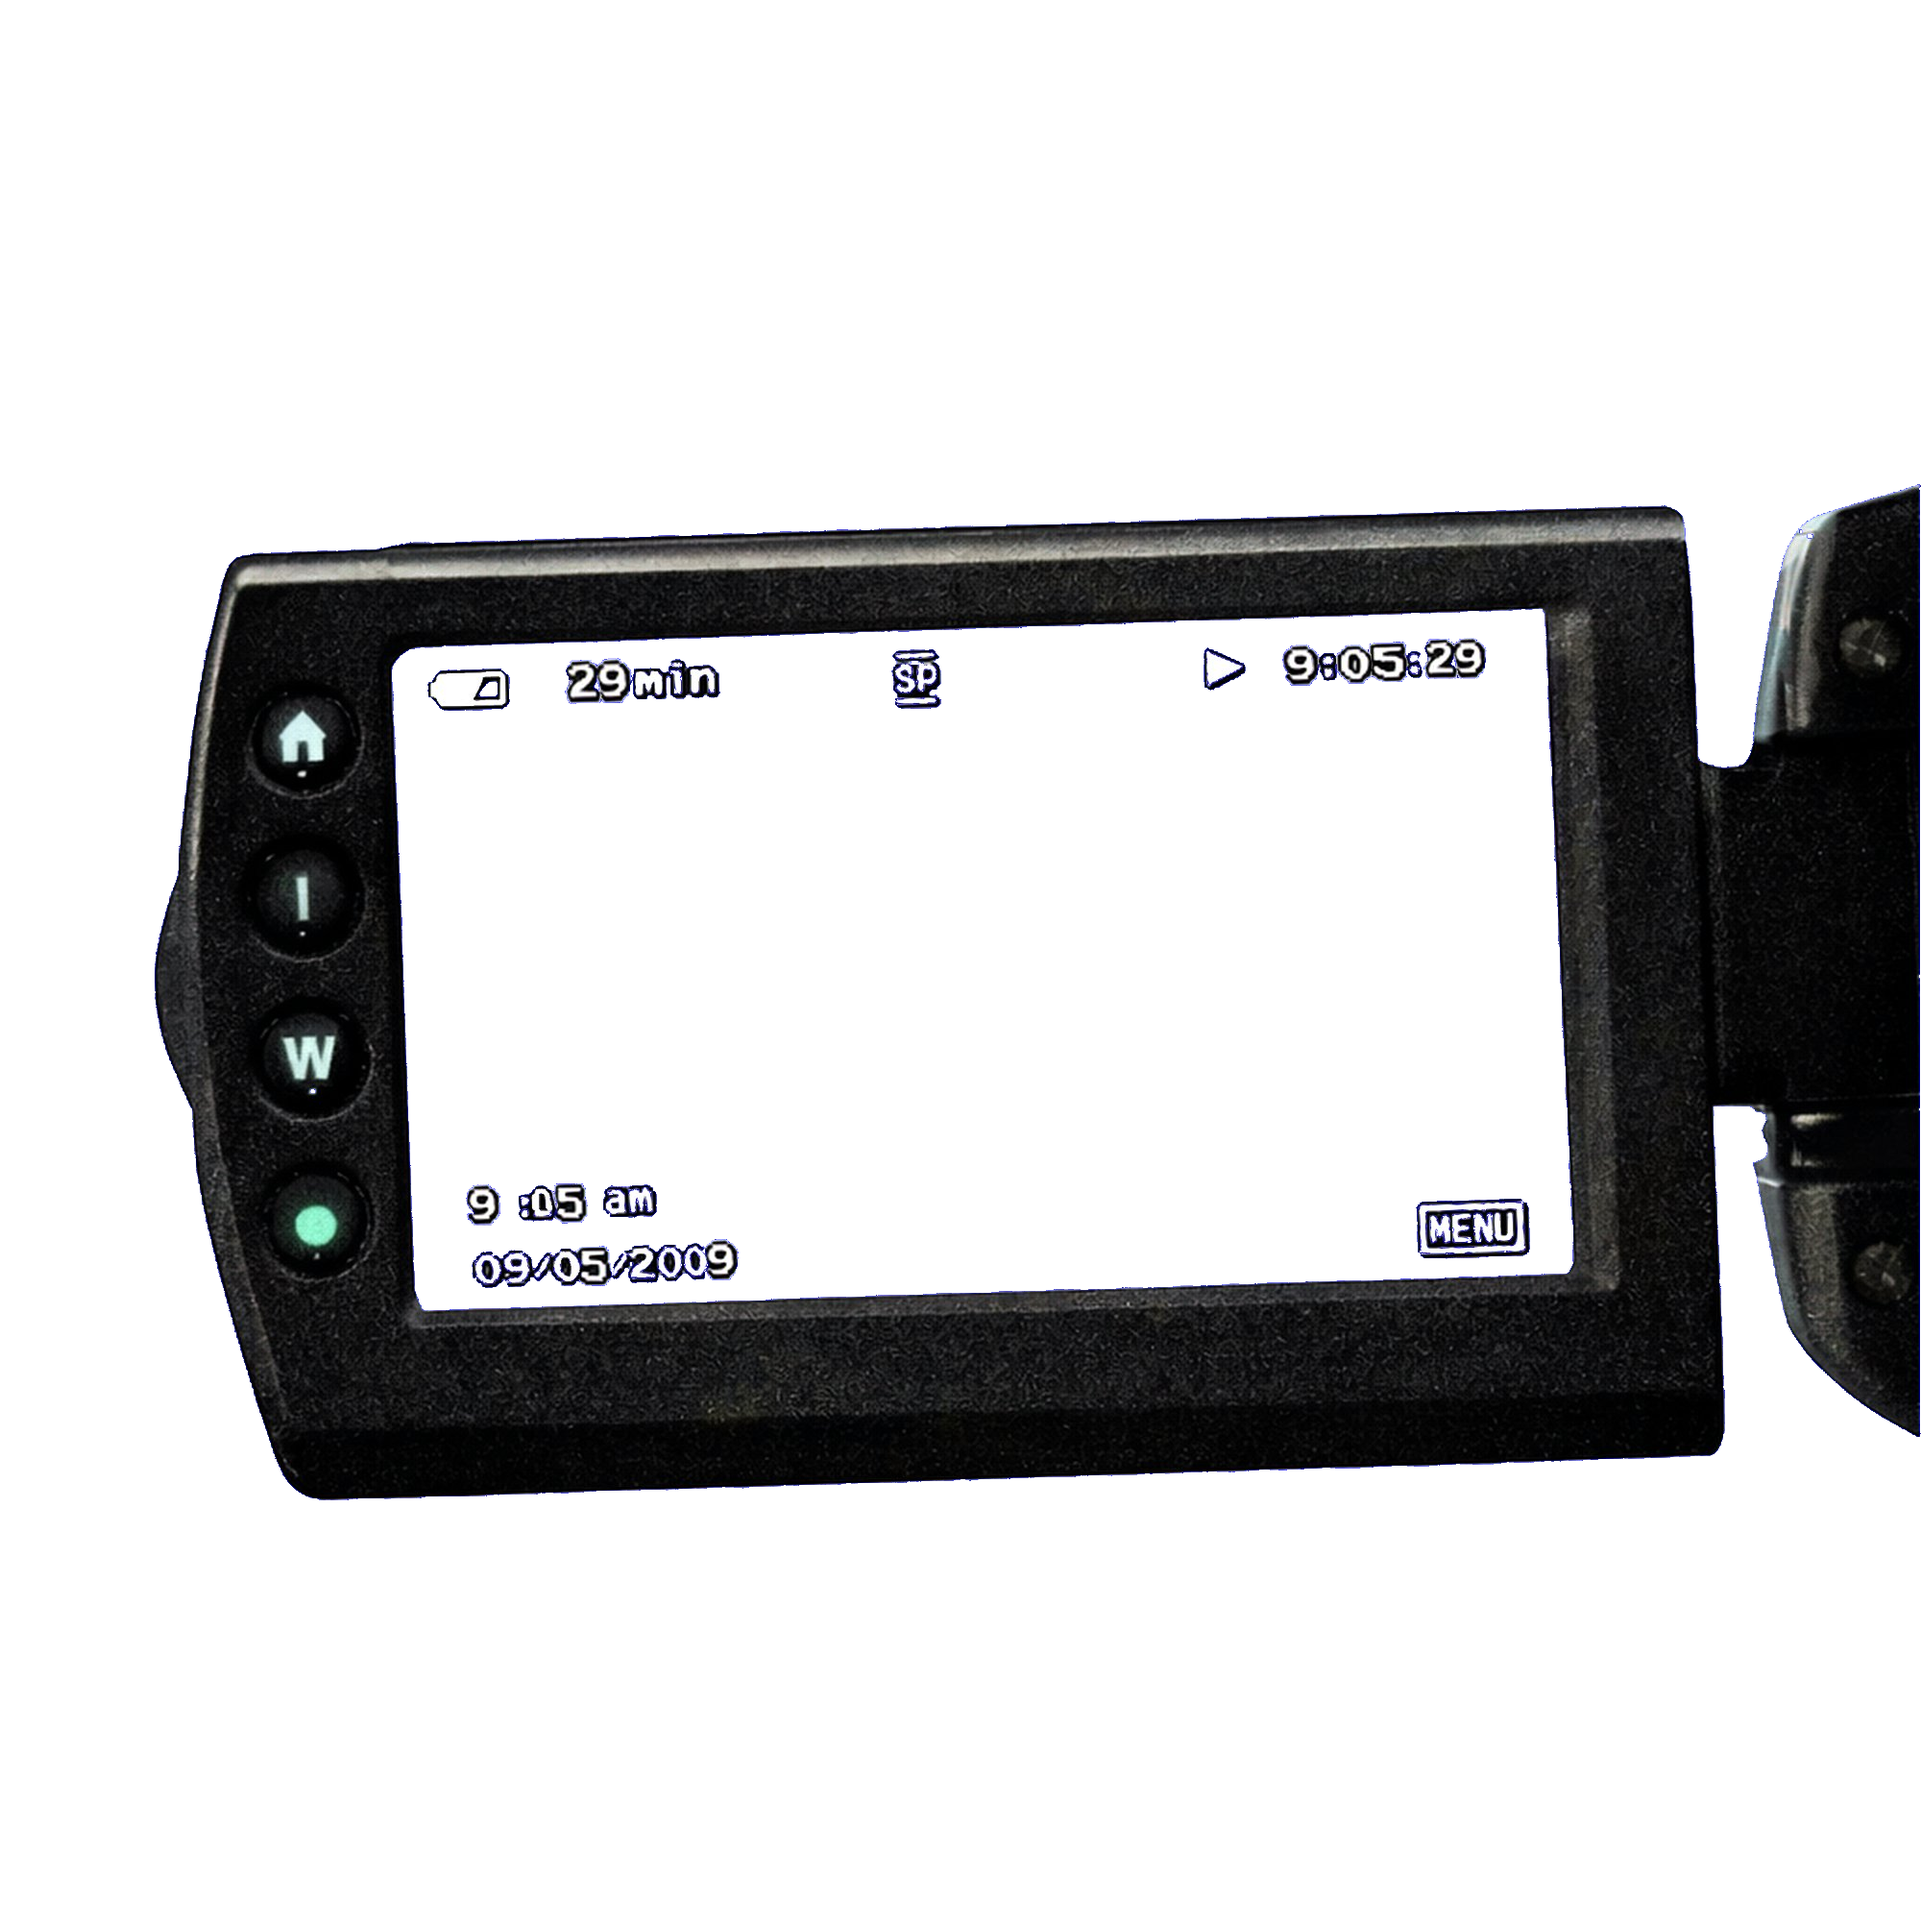
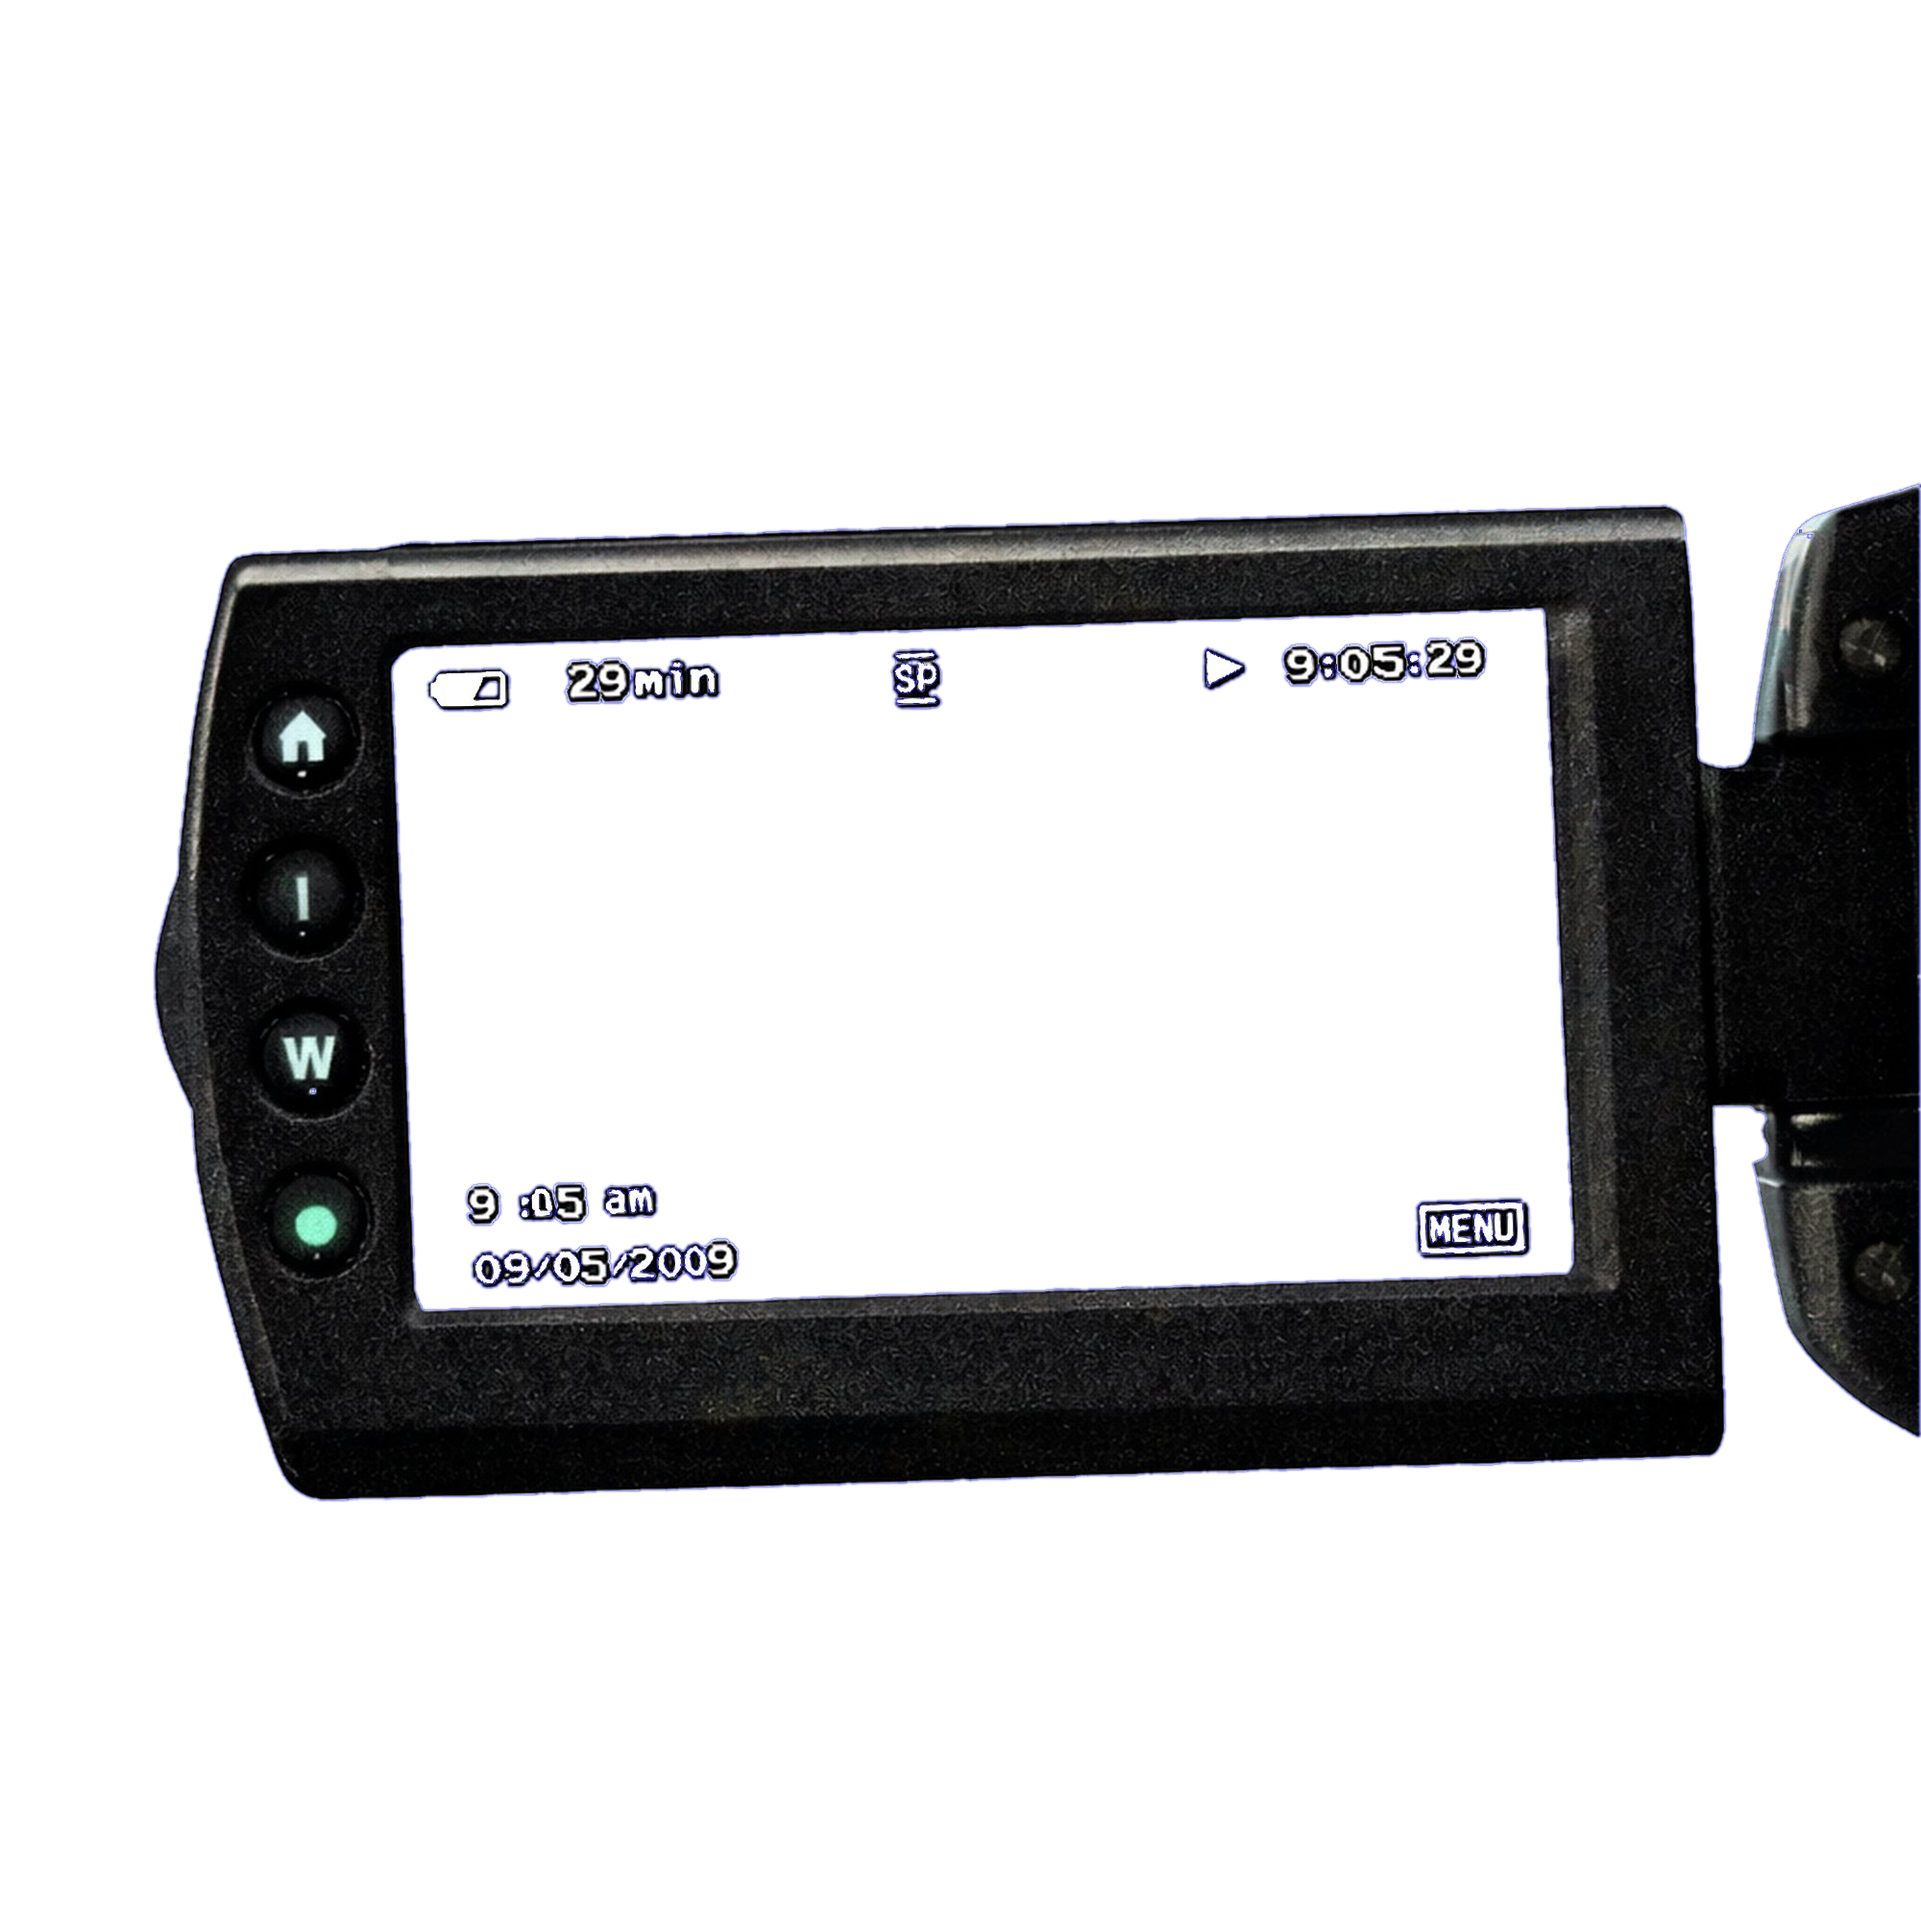
Add files via upload

diff --git a/login.js b/login.js
@@ -87,28 +87,6 @@ function getRandomVideoIndex(excludeIndex) {
     return pool[Math.floor(Math.random() * pool.length)];
 }
 
-// ── HUD 时钟 ─────────────────────────────────────────
-function startHudClock() {
-    const hudTime = document.getElementById('hudTime');
-    const hudDate = document.getElementById('hudDate');
-    if (!hudTime || !hudDate) return;
-
-    function tick() {
-        const now = new Date();
-        const h = String(now.getHours()).padStart(2, '0');
-        const m = String(now.getMinutes()).padStart(2, '0');
-        const s = String(now.getSeconds()).padStart(2, '0');
-        hudTime.textContent = `${h}:${m}:${s}`;
-
-        const mo = String(now.getMonth() + 1).padStart(2, '0');
-        const d  = String(now.getDate()).padStart(2, '0');
-        const y  = now.getFullYear();
-        hudDate.textContent = `${mo}/${d}/${y}`;
-    }
-    tick();
-    setInterval(tick, 1000);
-}
-
 // ── 核心：切换视频（同时切换屏幕视频 + 模糊背景视频） ──
 function switchVideo(index) {
     const scrVideos = document.querySelectorAll('.screen-video');
@@ -150,7 +128,6 @@ function switchVideo(index) {
         videoName.style.opacity = '0';
         setTimeout(() => { videoName.textContent = name; videoName.style.opacity = '1'; }, 300);
     }
-    if (hudLabel) hudLabel.textContent = name;
 }
 
 // ── DOM 加载完成 ───────────────────────────────────────
@@ -169,7 +146,6 @@ document.addEventListener('DOMContentLoaded', function () {
     const soundToggle     = document.getElementById('soundToggle');
     const bgmAudio        = document.getElementById('bgmAudio');
     const numKeys         = document.querySelectorAll('.num-key');
-    const hudLabel        = document.getElementById('hudLabel');
 
     // 随机初始视频
     currentVideoIndex = Math.floor(Math.random() * VIDEO_CONFIG.length);
@@ -200,11 +176,6 @@ document.addEventListener('DOMContentLoaded', function () {
     // 更新标签
     const initialName = VIDEO_CONFIG[currentVideoIndex].name;
     if (videoName)  videoName.textContent  = initialName;
-    if (hudLabel)   hudLabel.textContent   = initialName;
-
-    // 启动 HUD 时钟
-    startHudClock();
-
     // ── 随机切换按钮 ──
     randomToggle?.addEventListener('click', () => {
         switchVideo(getRandomVideoIndex(currentVideoIndex));

diff --git a/login.css b/login.css
@@ -68,11 +68,11 @@ body {
 .camera-display {
     position: fixed;
     top: 50%;
-    /* 相机PNG右侧约20%是透明空白，right:-20%让机身实体贴紧视窗右边缘 */
-    right: -20%;
+    /* 机身右侧边缘与 .bottom-controls (right:20px) 对齐 */
+    right: 20px;
     transform: translateY(-50%);
 
-    /* 最小1000px，响应式跟随视窗放大 */
+    /* 最小 1000px */
     width: max(1000px, 70vh);
     height: max(1000px, 70vh);
 
@@ -94,9 +94,11 @@ body {
 
 .screen-video {
     position: absolute;
-    inset: 0;
-    width: 100%;
-    height: 100%;
+    /* 向外扩展 6% 确保填满取景器四边，overflow:hidden 由父级裁切 */
+    top: -6%;
+    left: -6%;
+    width: 112%;
+    height: 112%;
     object-fit: cover;
     opacity: 0;
     transition: opacity 0.8s ease;
@@ -118,7 +120,7 @@ body {
     z-index: 1;
 }
 
-/* 仿相机 HUD 文字叠层 */
+/* 相机 HUD：仅保留 REC 闪烁指示 */
 .camera-hud {
     position: absolute;
     top: var(--screen-top);
@@ -126,53 +128,24 @@ body {
     width: var(--screen-width);
     height: var(--screen-height);
     z-index: 2;
-    display: flex;
-    flex-direction: column;
-    justify-content: space-between;
-    padding: 6% 8%;
+    padding: 8% 8%;
     pointer-events: none;
     font-family: 'Courier New', Courier, monospace;
-    color: rgba(255, 255, 255, 0.55);
-    font-size: clamp(7px, 1.3vmin, 11px);
-    letter-spacing: 0.05em;
-    text-shadow: 0 1px 3px rgba(0,0,0,0.8);
-}
-
-.hud-top {
-    display: flex;
-    justify-content: space-between;
-    align-items: flex-start;
+    font-size: clamp(8px, 1.4vmin, 13px);
+    letter-spacing: 0.08em;
+    text-shadow: 0 1px 4px rgba(0,0,0,0.9);
 }
 
 .hud-rec {
-    color: rgba(255, 80, 80, 0.8);
+    display: inline-block;
+    color: rgba(255, 255, 255, 0.9);
     font-weight: bold;
     animation: recBlink 1.5s step-end infinite;
 }
 
 @keyframes recBlink {
     0%, 100% { opacity: 1; }
-    50%       { opacity: 0.2; }
-}
-
-.hud-time {
-    font-variant-numeric: tabular-nums;
-}
-
-.hud-bottom {
-    display: flex;
-    justify-content: space-between;
-    align-items: flex-end;
-}
-
-.hud-date {
-    font-variant-numeric: tabular-nums;
-}
-
-.hud-label {
-    opacity: 0.7;
-    font-family: 'Noto Sans SC', sans-serif;
-    font-weight: 200;
+    50%       { opacity: 0; }
 }
 
 /* ─── 视频名称 - 左下角 ─── */

diff --git a/login.html b/login.html
@@ -54,16 +54,9 @@
         <!-- 相机边框叠层（屏幕区域镂空透明） -->
         <img src="images/cameraframe_b_transparent.png" class="camera-frame-img" alt="" draggable="false">
 
-        <!-- 仿相机 HUD 叠层 -->
+        <!-- REC 闪烁指示 -->
         <div class="camera-hud">
-            <div class="hud-top">
-                <span class="hud-rec">● REC</span>
-                <span class="hud-time" id="hudTime">00:00</span>
-            </div>
-            <div class="hud-bottom">
-                <span class="hud-date" id="hudDate">00/00/0000</span>
-                <span class="hud-label" id="hudLabel">金门大桥</span>
-            </div>
+            <span class="hud-rec">● REC</span>
         </div>
     </div>
 
